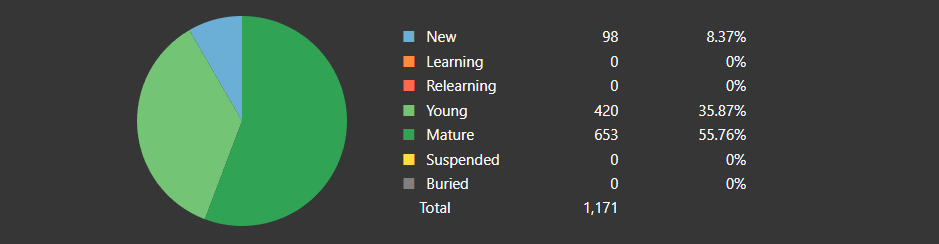
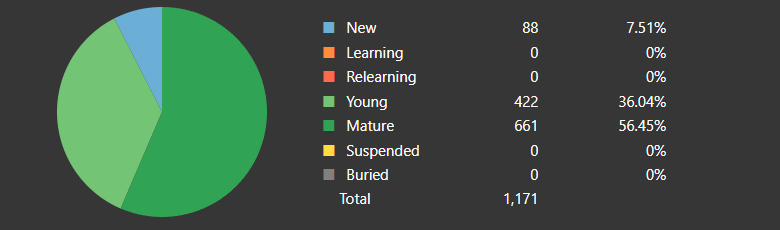
Deployed 273fc8c with MkDocs version: 1.5.3

diff --git a/index.html b/index.html
@@ -423,15 +423,15 @@
       <ul class="md-nav__list">
         
           <li class="md-nav__item">
-  <a href="#tango-n5-as-of-112923" class="md-nav__link">
-    Tango N5 as of 11/29/23
+  <a href="#tango-n5-as-of-113023" class="md-nav__link">
+    Tango N5 as of 11/30/23
   </a>
   
 </li>
         
           <li class="md-nav__item">
-  <a href="#tango-n4-as-of-112923" class="md-nav__link">
-    Tango N4 as of 11/29/23
+  <a href="#tango-n4-as-of-113023" class="md-nav__link">
+    Tango N4 as of 11/30/23
   </a>
   
 </li>
@@ -1920,15 +1920,15 @@
       <ul class="md-nav__list">
         
           <li class="md-nav__item">
-  <a href="#tango-n5-as-of-112923" class="md-nav__link">
-    Tango N5 as of 11/29/23
+  <a href="#tango-n5-as-of-113023" class="md-nav__link">
+    Tango N5 as of 11/30/23
   </a>
   
 </li>
         
           <li class="md-nav__item">
-  <a href="#tango-n4-as-of-112923" class="md-nav__link">
-    Tango N4 as of 11/29/23
+  <a href="#tango-n4-as-of-113023" class="md-nav__link">
+    Tango N4 as of 11/30/23
   </a>
   
 </li>
@@ -1995,13 +1995,13 @@
 
 <h1 id="docjp-landing-page">doc.jp Landing Page<a class="headerlink" href="#docjp-landing-page" title="Permanent link">&para;</a></h1>
 <h2 id="anki-deck-card-counts">Anki Deck Card Counts<a class="headerlink" href="#anki-deck-card-counts" title="Permanent link">&para;</a></h2>
-<h3 id="tango-n5-as-of-112923">Tango N5 as of 11/29/23<a class="headerlink" href="#tango-n5-as-of-112923" title="Permanent link">&para;</a></h3>
-<p><strong>1073</strong> vocabulary words known with <strong>98</strong> new cards remaining </p>
+<h3 id="tango-n5-as-of-113023">Tango N5 as of 11/30/23<a class="headerlink" href="#tango-n5-as-of-113023" title="Permanent link">&para;</a></h3>
+<p><strong>1083</strong> vocabulary words known with <strong>88</strong> new cards remaining </p>
 <ul>
 <li>On track to finish all new cards on <strong>12/09/23</strong> doing <strong>10</strong> new cards a day.</li>
 </ul>
 <p><img align="center" alt="Card Counts" src="assets/anki-stats/n5-card-counts.png" /></p>
-<h3 id="tango-n4-as-of-112923">Tango N4 as of 11/29/23<a class="headerlink" href="#tango-n4-as-of-112923" title="Permanent link">&para;</a></h3>
+<h3 id="tango-n4-as-of-113023">Tango N4 as of 11/30/23<a class="headerlink" href="#tango-n4-as-of-113023" title="Permanent link">&para;</a></h3>
 <p><strong>0</strong> vocabulary words known with <strong>917</strong> new cards remaining: Haven't started this deck yet.</p>
 <p><img align="center" alt="Card Counts" src="assets/anki-stats/n4-card-counts.png" /></p>
 <h2 id="grammar-learning">Grammar Learning<a class="headerlink" href="#grammar-learning" title="Permanent link">&para;</a></h2>
